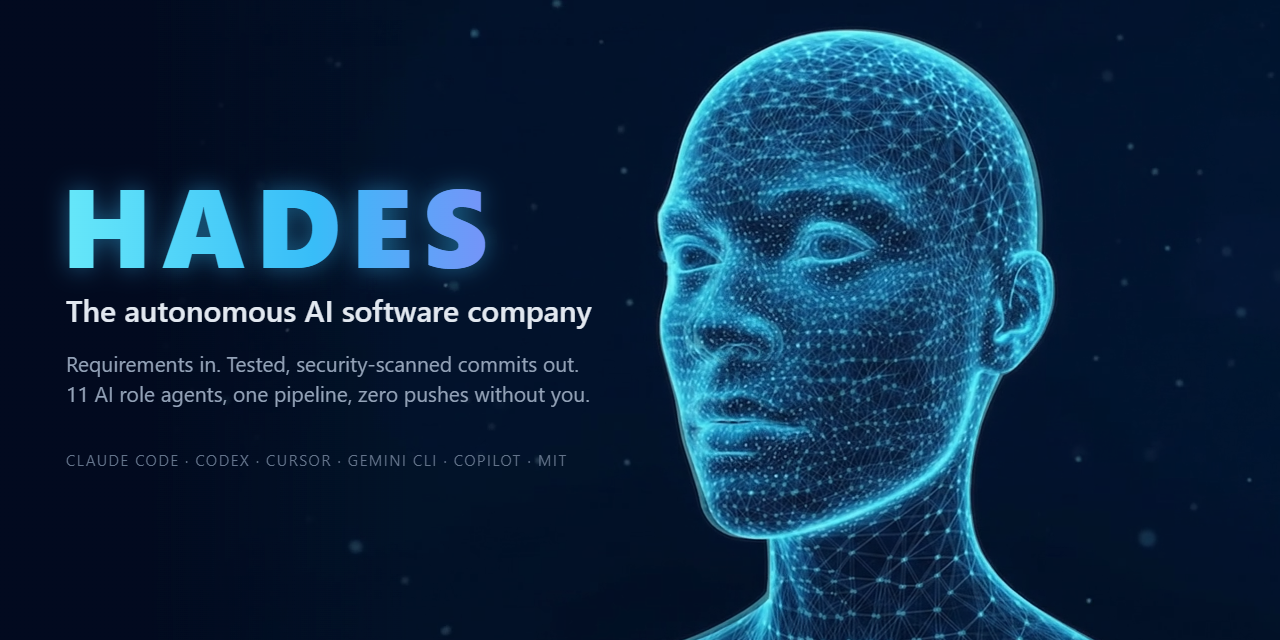
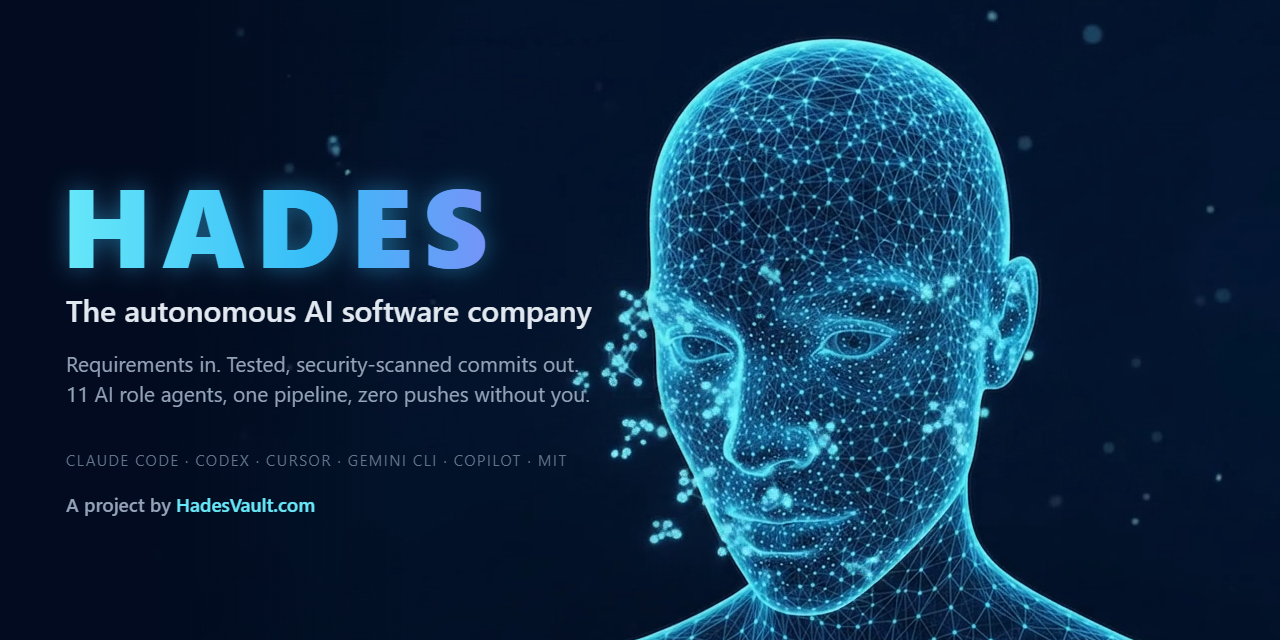
Brand HADES as "a project by HadesVault.com"
Add the attribution to the README header and author line, package.json
(description and author url), the CLI help banner, HADES.md, the launch
kit (website field and posts), and draw it into the animated README hero
and the social preview image.

diff --git a/docs/assets/hero-tools/capture.html b/docs/assets/hero-tools/capture.html
@@ -15,7 +15,8 @@ function drawText(ctx){ctx.save();ctx.scale(SCALE,SCALE);
   ctx.fillStyle=tg;ctx.font='800 112px "Segoe UI",Inter,Helvetica,Arial,sans-serif';ctx.letterSpacing='10px';ctx.shadowColor='rgba(56,189,248,.45)';ctx.shadowBlur=24;ctx.fillText('HADES',62,268);
   ctx.shadowBlur=0;ctx.letterSpacing='0px';ctx.fillStyle='#e2e8f0';ctx.font='600 30px "Segoe UI",Inter,Helvetica,Arial,sans-serif';ctx.fillText('The autonomous AI software company',66,322);
   ctx.fillStyle='#94a3b8';ctx.font='21px "Segoe UI",Inter,Helvetica,Arial,sans-serif';ctx.fillText('Requirements in. Tested, security-scanned commits out.',66,372);ctx.fillText('11 AI role agents, one pipeline, zero pushes without you.',66,402);
-  ctx.fillStyle='#64748b';ctx.font='15px "Segoe UI",Inter,Helvetica,Arial,sans-serif';ctx.letterSpacing='1.5px';ctx.fillText('CLAUDE CODE · CODEX · CURSOR · GEMINI CLI · COPILOT · MIT',66,466);ctx.restore()}
+  ctx.fillStyle='#64748b';ctx.font='15px "Segoe UI",Inter,Helvetica,Arial,sans-serif';ctx.letterSpacing='1.5px';ctx.fillText('CLAUDE CODE · CODEX · CURSOR · GEMINI CLI · COPILOT · MIT',66,466);
+  ctx.letterSpacing='0px';ctx.font='600 19px "Segoe UI",Inter,Helvetica,Arial,sans-serif';ctx.fillStyle='#94a3b8';ctx.fillText('A project by ',66,512);ctx.fillStyle='#67e8f9';ctx.fillText('HadesVault.com',66+ctx.measureText('A project by ').width,512);ctx.restore()}
 (async()=>{const url=URL.createObjectURL(await (await fetch('in.mp4')).blob());const a=await mk(url),b=await mk(url);
   const D=a.duration, L=D-FADE;
   async function frame(t){await seek(a,t);drawVideo(g,a);

diff --git a/docs/launch-kit.md b/docs/launch-kit.md
@@ -10,7 +10,7 @@ submit, because they change.
 
 > Open-source autonomous AI software company for Claude Code. A team of AI agents (business analyst, architect, backend, frontend, QA, DevOps, security) takes a requirement through design, build, tests, security scans and local commits. Multi-agent coding with guard hooks; exports to Codex, Cursor, Gemini CLI and Copilot.
 
-**Website:** leave empty, or point it at the README (`https://github.com/prasadm1022/hades-vault#readme`).
+**Website:** `https://hadesvault.com` (HADES is a project by HadesVault.com).
 
 **Topics** (GitHub allows 20):
 
@@ -119,6 +119,7 @@ It also exports to Codex, Cursor, Gemini CLI, Copilot, Devin, Cline and OpenCode
 documented in a support matrix.
 
 Repo: https://github.com/prasadm1022/hades-vault
+A project by HadesVault.com: https://hadesvault.com
 
 Feedback on the pipeline and the guard rules is very welcome.
 ```
@@ -155,6 +156,7 @@ reads, and the run ends with local commits and a report for you to review.
 It also exports to OpenAI Codex, Cursor, Gemini CLI, GitHub Copilot, Devin, Cline and OpenCode.
 
 MIT licensed: https://github.com/prasadm1022/hades-vault
+A project by HadesVault.com: https://hadesvault.com
 ```
 
 ## dev.to article

diff --git a/README.md b/README.md
@@ -8,6 +8,8 @@
   <strong>State a requirement. A team of AI agents analyses, designs, builds, tests, deploys and security-scans it, then hands you local commits to review.</strong>
 </p>
 
+<p align="center"><sub>A project by <a href="https://hadesvault.com">HadesVault.com</a></sub></p>
+
 <p align="center">
   <a href="LICENSE"><img src="https://img.shields.io/badge/license-MIT-blue.svg" alt="License: MIT"></a>
   <a href="https://nodejs.org"><img src="https://img.shields.io/badge/node-%3E%3D22-339933?logo=node.js&logoColor=white" alt="Node.js 22 or newer"></a>
@@ -1102,7 +1104,8 @@ GPL-3.0-or-later), with NOTICE and legal-notice files to keep when you redistrib
 [MCP Proxy for AWS](https://github.com/aws/mcp-proxy-for-aws). It runs on
 [Claude Code](https://code.claude.com). Product names are trademarks of their owners.
 
-**Author.** Built by Prasad Madusanka ([@prasadm1022](https://github.com/prasadm1022)).
+**Author.** A project by [HadesVault.com](https://hadesvault.com), built by Prasad Madusanka
+([@prasadm1022](https://github.com/prasadm1022)).
 
 ## Star History
 

diff --git a/HADES.md b/HADES.md
@@ -1,5 +1,7 @@
 # HADES
 
+*A project by [HadesVault.com](https://hadesvault.com).*
+
 HADES is an autonomous software company that runs inside Claude Code. The owner states business
 requirements; HADES analyses them, designs, plans, builds, tests, commits locally, deploys,
 security-tests, fixes what it finds, learns and reports. It never pushes: the owner reviews and pushes.
